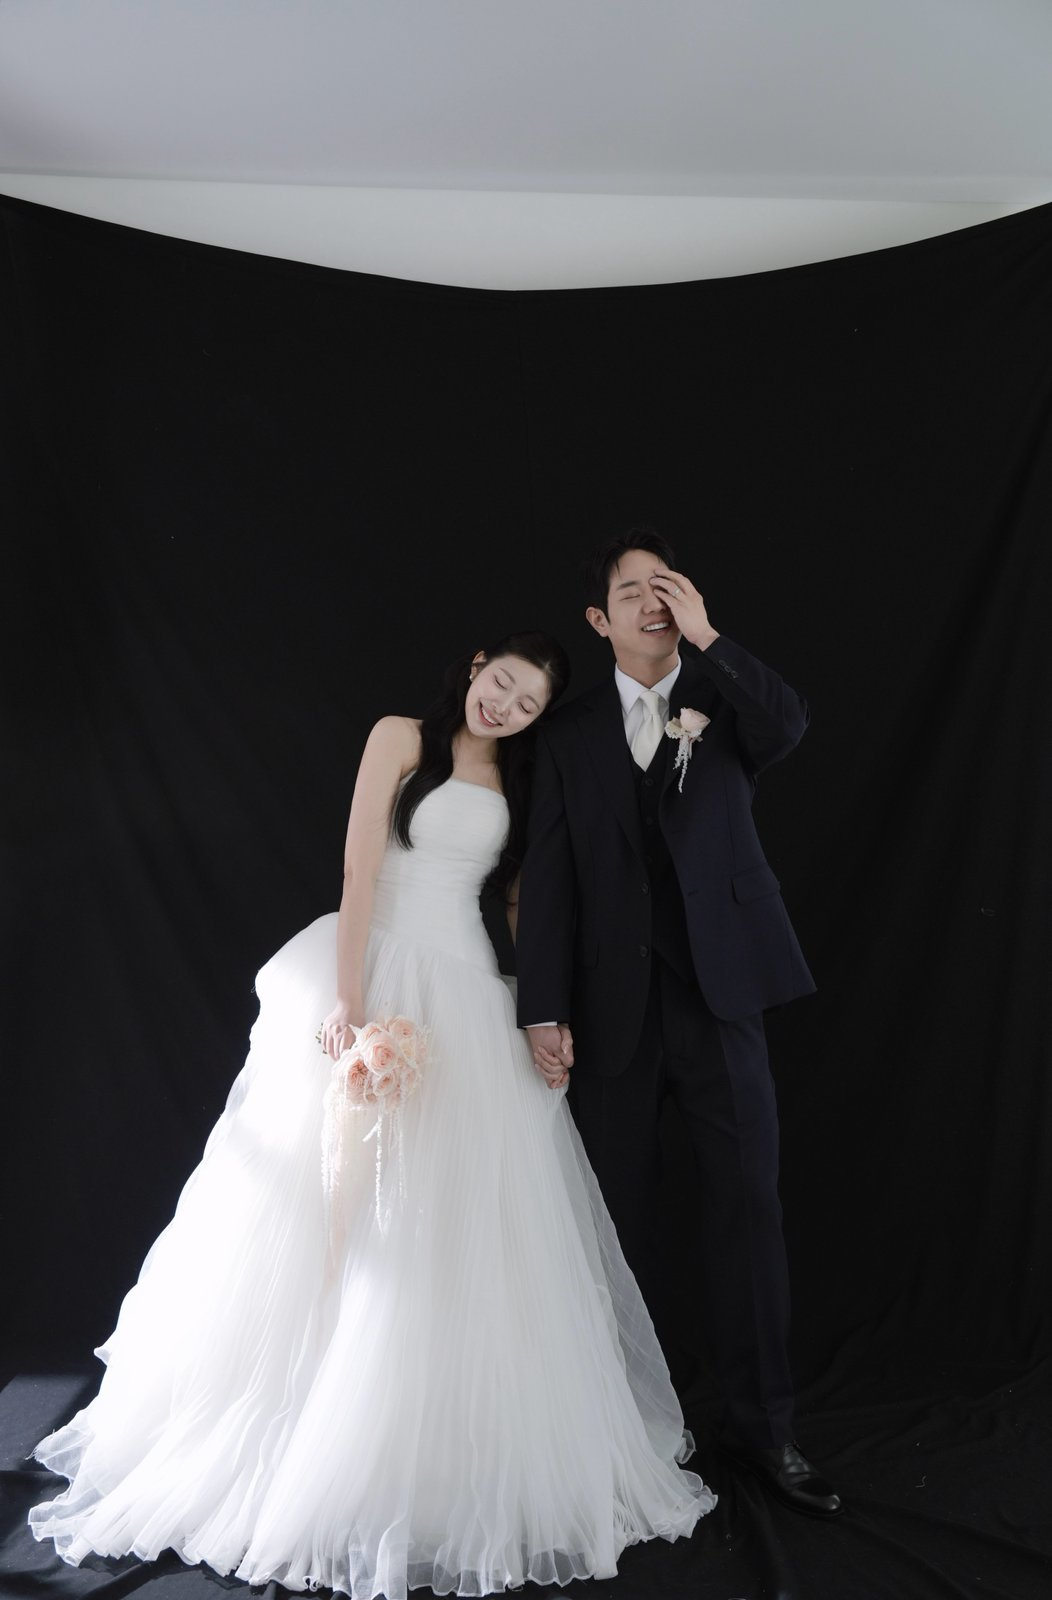
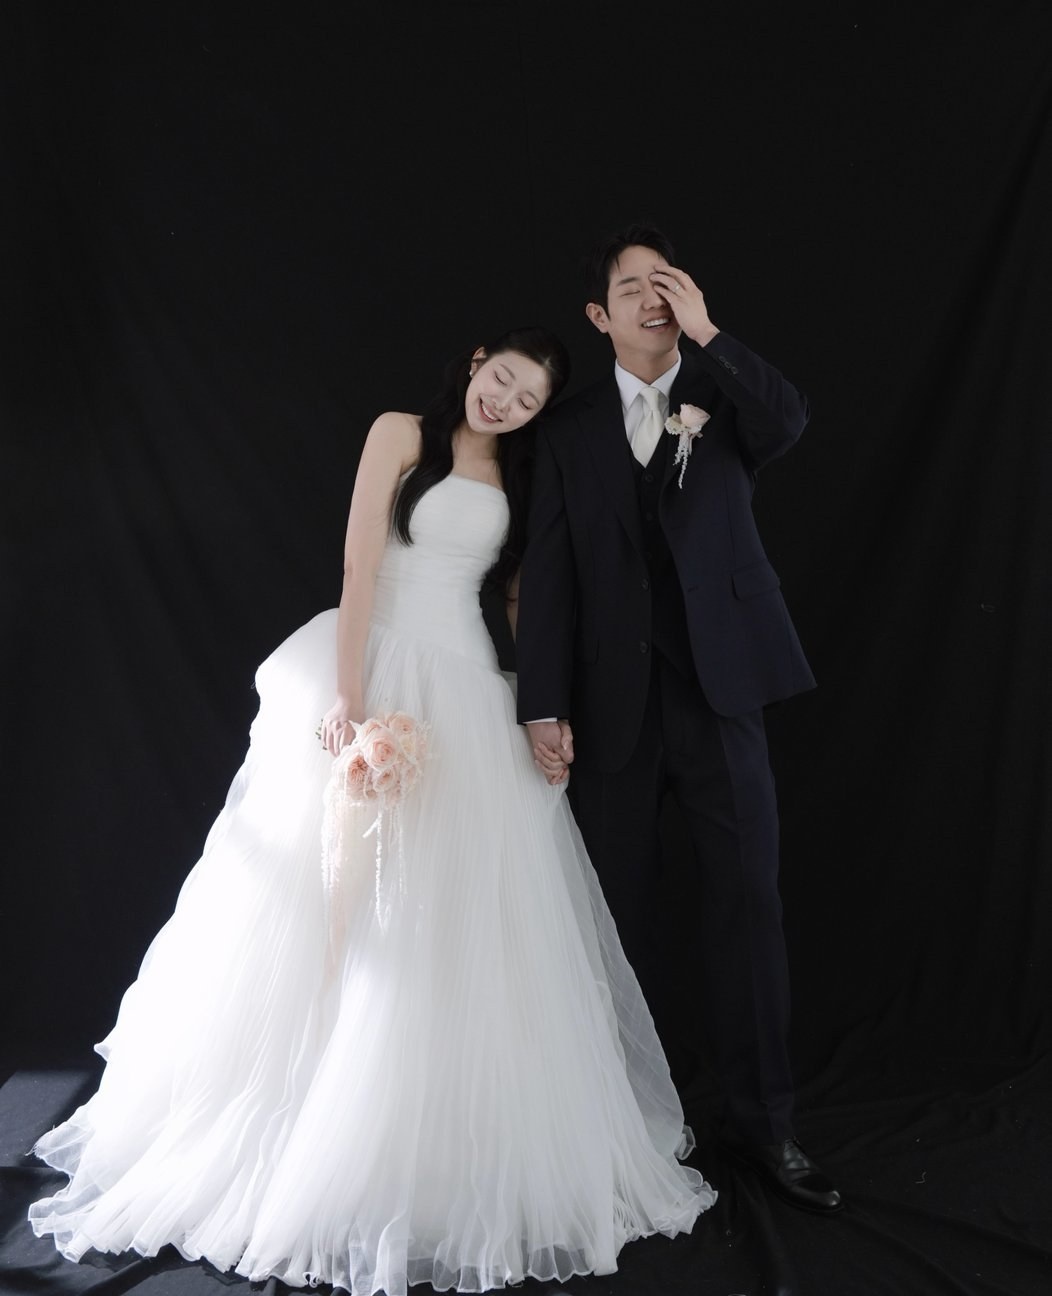
fix: 확대 중 사진 넘어감 방지 + 검은배경 사진 흰영역 크롭
- 라이트박스: 핀치 줌 중이거나 확대 상태에서는 스와이프로 넘어가지 않음
  (두 손가락 감지 + visualViewport 배율 확인 + 스와이프 판정 강화)
- gallery_13: 상단 흰 천장 크롭
- gallery_15: 천장 + 왼쪽 흰 패널 + 오른쪽 흰 실선 크롭
- gallery_23: 새 원본 웹 최적화 (7.8MB -> 173KB)
- 사용자 교체분(2, 6, 14) 반영

diff --git a/index.html b/index.html
@@ -1621,19 +1621,42 @@
   });
 
   // 모바일 스와이프로 이전/다음 사진
+  // 단, 핀치 줌(두 손가락)이나 확대 상태에서는 절대 넘어가지 않음
   (function () {
     const lb = document.getElementById('lightbox');
-    let x0 = null, y0 = null;
+    let x0 = null, y0 = null, pinching = false;
+
     lb.addEventListener('touchstart', e => {
+      if (e.touches.length > 1) {  // 두 손가락 = 핀치 줌
+        pinching = true;
+        x0 = y0 = null;
+        return;
+      }
       x0 = e.touches[0].clientX;
       y0 = e.touches[0].clientY;
     }, { passive: true });
+
+    lb.addEventListener('touchmove', e => {
+      if (e.touches.length > 1) {
+        pinching = true;
+        x0 = y0 = null;
+      }
+    }, { passive: true });
+
     lb.addEventListener('touchend', e => {
+      // 핀치 제스처가 완전히 끝날 때까지 스와이프 무시
+      if (pinching) {
+        if (e.touches.length === 0) pinching = false;
+        return;
+      }
       if (x0 === null) return;
       const dx = e.changedTouches[0].clientX - x0;
       const dy = e.changedTouches[0].clientY - y0;
       x0 = y0 = null;
-      if (Math.abs(dx) > 45 && Math.abs(dx) > Math.abs(dy)) stepLightbox(dx < 0 ? 1 : -1);
+      // 화면이 확대된 상태면 손가락 이동은 '사진 둘러보기'이므로 넘기지 않음
+      if (window.visualViewport && window.visualViewport.scale > 1.05) return;
+      // 확실한 가로 스와이프일 때만 이동 (60px 이상 + 가로가 세로의 1.5배 이상)
+      if (Math.abs(dx) > 60 && Math.abs(dx) > Math.abs(dy) * 1.5) stepLightbox(dx < 0 ? 1 : -1);
     }, { passive: true });
   })();
 
